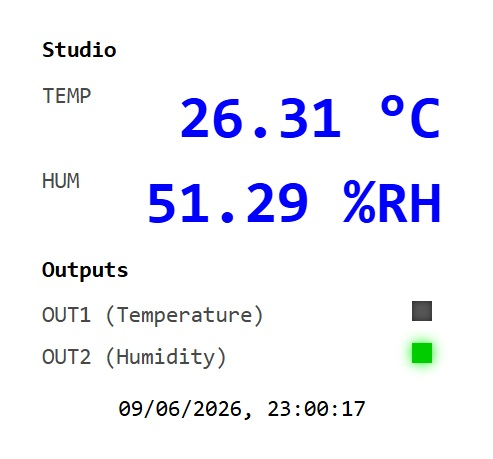
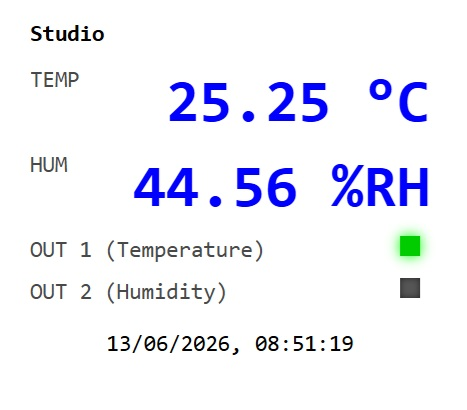
Removed /info page; change /home page removing "outputs" label; Update README and TODO.

diff --git a/include/wlt_tcp.h b/include/wlt_tcp.h
@@ -72,49 +72,6 @@ input[type=\"submit\"]:hover {\
 background-color: #2980b9;\
 }\r\n"
 
-#define STYLE_INFO_CSS                        "body {\
-font-family: Arial, sans-serif;\
-background-color: #f4f6f8;\
-color: #333;\
-display: flex;\
-justify-content: center;\
-align-items: flex-start;\
-min-height: 100vh;\
-padding-top: 50px;\
-margin: 0;\
-}\n\
-.info-container {\
-background-color: #ffffff;\
-padding: 30px;\
-border-radius: 8px;\
-box-shadow: 0 4px 12px rgba(0, 0, 0, 0.1);\
-width: 400px;\
-font-size: 2rem;\
-}\n\
-h2 {\
-color: #2c3e50;\
-margin-bottom: 20px;\
-text-align: center;\
-font-size: 1.5rem;\
-}\n\
-h3 {\
-color:rgb(90, 100, 240);\
-margin-bottom: 20px;\
-text-align: center;\
-}\n\
-.info-data {\
-display: flex;\
-flex-direction: column;\
-gap: 10px;\
-align-items: stretch;\
-}\n\
-.info-data label span.value {\
-font-family: 'Consolas', 'Courier New', monospace;\
-font-size: 2.2rem;\
-color: rgb(0, 0, 255);\
-font-weight: bold;\
-}\r\n"
-
 #define STYLE_FORM_DARK         ":root{--bg: #121212;--fg: #e0e0e0;--border: #444;--accent: #00f;}\
 body{font-family: Arial, sans-serif;background: var(--bg);color: var(--fg);margin: 10px;font-size: 14px;}\
 .container{max-width: 320px;margin: auto;}\
@@ -159,45 +116,7 @@ display:flex;align-items:center;justify-content:center;height:100vh}\
 .led.off{background-color:#555;box-shadow: inset 0 0 5px #222;}\
 .led.on{background-color:#00cc00;box-shadow: 0 0 10px #00ff00;}\r\n"
 
-// **** INFO PAGE ****
-#define INFO_REPLY_HEAD                     "<!DOCTYPE html>\
-<html lang=\"en\">\
-<head>\
-<meta charset=\"UTF-8\">\
-<meta name=\"viewport\" content=\"width=device-width, initial-scale=1.0\"/>\
-<title>Sensor info</title>\
-<link rel=\"stylesheet\" type=\"text/css\" href=\"style_info.css\">\
-<script>\
-setInterval(() => { location.reload(); }, 10000);\
-</script>\
-</head>"
-
-#define INFO_REPLY_BODY                     "<body>\
-<div class=\"info-container\">\
-<h2>%s</h2>\
-<div class=\"info-data\">\
-<label><span class=\"value\">%.02f %s</span></label>\
-<label><span class=\"value\">%.02f %%RH</span></label>\
-</div>\
-<h2 id=\"datetime\"></h2>\
-<script>\
-document.getElementById('datetime').textContent = new Date().toLocaleString();\
-</script>\
-</div>\
-</body>\
-</html>"
-
-#define INFO_REPLY_BODY_NOT_VALID         "<body>\
-<div class=\"info-container\">\
-<h2>%s</h2>\
-<div class=\"info-data\">\
-<p>Sensor not available or last data read is not valid!</p>\
-</div>\
-</div>\
-</body>\
-</html>"
-
-// **** HOME PAGE (replace INFO page)
+// **** HOME PAGE ****
 #define HOME_REPLY_HEAD                    "<!doctype html>\
 <html>\
 <head>\
@@ -212,9 +131,8 @@ document.getElementById('datetime').textContent = new Date().toLocaleString();\
 <div class=r><span class=l>TEMP</span><span class=v>%.02f %s</span></div>\
 <div class=r><span class=l>HUM</span><span class=v>%.02f %%RH</span></div>"
 
-#define HOME_REPLY_BODY_OUTS                "<h2 class=t>Outputs</h2>\
-<div class=r><span class=l>OUT1 (%s)</span><span class=\"%s\"></span></div>\
-<div class=r><span class=l>OUT2 (%s)</span><span class=\"%s\"></span></div>\
+#define HOME_REPLY_BODY_OUTS                "<div class=r><span class=l>OUT 1 (%s)</span><span class=\"%s\"></span></div>\
+<div class=r><span class=l>OUT 2 (%s)</span><span class=\"%s\"></span></div>\
 <div class=d id=datetime>\
 <h3 id=\"datetime\"></h3>\
 <script>\
@@ -451,12 +369,10 @@ document.getElementById(\"datetime\").textContent = new Date().toLocaleString();
 #define STYLE_URL                           "/style.css"
 #define STYLE_FORM_DARK_URL                 "/style_form_dark.css"
 #define STYLE_FORM_LIGHT_URL                "/style_form_light.css"
-#define STYLE_INFO_URL                      "/style_info.css"
 #define STYLE_HOME_DARK_URL                 "/style_dark.css"
 #define STYLE_HOME_LIGHT_URL                "/style_light.css"
 #define FAVICON_URL                         "/favicon.ico"
 #define HOME_URL                            "/home"
-#define INFO_URL                            "/info"
 #define SETTINGS_URL                        "/settings"
 #define SETTINGS_FORM_URL                   "/setparams"
 #define ADVANCED_URL                        "/advparams"
@@ -484,12 +400,10 @@ enum http_get_req {
     HTTP_REQ_STYLE,
     HTTP_REQ_STYLE_FORM_DARK,
     HTTP_REQ_STYLE_FORM_LIGHT,
-    HTTP_REQ_STYLE_INFO,
     HTTP_REQ_STYLE_DARK,
     HTTP_REQ_STYLE_LIGHT,
     HTTP_REQ_HOME,
     HTTP_REQ_FAVICON,
-    HTTP_REQ_INFO,
     HTTP_REQ_SETTINGS,
     HTTP_REQ_SETTINGS_FORM,
     HTTP_REQ_ADVANCED,
@@ -508,8 +422,6 @@ enum http_get_req {
 };
 
 enum http_post_req {
-//    HTTP_API_INFO,
-//    HTTP_API_GET_SETTINGS,
     HTTP_API_SET_ALL_PARAMS,
     HTTP_API_SET_WIFI_PARAMS,
     HTTP_API_SET_SETTING_PARAMS,

diff --git a/wlt_tcp.c b/wlt_tcp.c
@@ -13,12 +13,10 @@ static char *http_get_req_str[HTTP_GET_REQ_MAX] = {
     STYLE_URL,
     STYLE_FORM_DARK_URL,
     STYLE_FORM_LIGHT_URL,
-    STYLE_INFO_URL,
     STYLE_HOME_DARK_URL,
     STYLE_HOME_LIGHT_URL,
     HOME_URL,
     FAVICON_URL,
-    INFO_URL,
     SETTINGS_URL,
     SETTINGS_FORM_URL,
     ADVANCED_URL,
@@ -439,22 +437,6 @@ static int fill_server_content(const char *request, const char *params, char *re
                 }
                 break;
 
-            case HTTP_REQ_STYLE_INFO:
-                // Copy the style sheet for info page
-                len2copy = strlen(STYLE_INFO_CSS);
-                if (len2copy >= max_result_len) {
-                    printf("Result buffer too small for style info (len2copy=%d, max_result_len=%zu)\n", len2copy, max_result_len);
-                    return 0; // Error
-                }
-                else {
-                    len += snprintf(result + len, max_result_len - len, STYLE_INFO_CSS);
-                }
-                if (len < 0) {
-                    printf("Error generating info content\n");
-                    return 0; // Error
-                }
-                break;
-
             case HTTP_REQ_STYLE_DARK:
                 // Copy the style sheet
                 len2copy = strlen(STYLE_CSS_DARK);
@@ -559,43 +541,6 @@ static int fill_server_content(const char *request, const char *params, char *re
                     printf("Error generating favicon content\n");
                     return 0; // Error
                 }
-                break;
-
-            case HTTP_REQ_INFO:
-                // copy the info head
-                len += snprintf(result + len, max_result_len - len, INFO_REPLY_HEAD);
-                if (len < 0) {
-                    printf("Error generating info content\n");
-                    return 0; // Error
-                }
-                else if (len >= max_result_len) {
-                    printf("Result buffer too small for info head (len=%d, max_result_len=%zu)\n", len, max_result_len);
-                    return 0; // Error
-                }
-                // copy the info body
-                if (prtconfig->data.settings.options.data_valid == SENS_DATA_NOT_VALID) {
-                    // If data is not valid, show a message
-                    len += snprintf(result + len, max_result_len - len, INFO_REPLY_BODY_NOT_VALID, prtconfig->net_config.devicename);
-                } else {
-                    // Fill in the body with the sensor data
-                    len += snprintf(result + len, max_result_len - len, INFO_REPLY_BODY,
-                                    prtconfig->net_config.devicename,
-                                    (prtconfig->data.settings.options.t_format == T_FORMAT_CELSIUS ? prtconfig->data.temperature : C2F(prtconfig->data.temperature)),
-                                    (prtconfig->data.settings.options.t_format == T_FORMAT_CELSIUS ? "&degC" : "&degF"),
-                                    prtconfig->data.humidity);
-                }
-                if (len < 0) {
-                    printf("Error generating info content\n");
-                    return 0; // Error
-                }
-                else if (len >= max_result_len) {
-                    printf("Result buffer too small for info body (len=%d, max_result_len=%zu)\n", len, max_result_len);
-                    return 0; // Error
-                }
-#if DEBUG
-                else
-                    printf("Info content generated successfully, length: %d\n", len);
-#endif
                 break;
 
             case HTTP_REQ_SETTINGS:

diff --git a/README.md b/README.md
@@ -7,7 +7,7 @@ The measured values can be accessed via a web server interface — either throug
 The device allows configuration of several parameters, including:  
 - The device name  
 - Temperature format: °C or °F  
-- Output format: TXT or CSV
+- Output format on serial port: TXT or CSV
 - Theme of the home page (dark or light)  
 - Sensor polling interval
 - Temperature or humidity associated with the output  
@@ -27,7 +27,8 @@ To know the working status of the device, I added a RGB led that shows these col
 | Blue      | Blink | RUN IN AP MODE   |
 | Yellow    | Solid | WIFI FAIL        |  
 
-Sensor readings are always available, but configuration is only possible when the device is operating in Access Point mode.  
+Sensor readings are always available, but configuration via web server is only possible when the device is operating in Access Point mode.  
+Using API, is possible to change configuration also in Station Mode.  
 
 ## Hardware configuration  
 
@@ -67,19 +68,17 @@ The simple web server implemented in the device serves this pages:
 
 | Page              | Available in AP mode | Available in STA mode |
 |-------------------|----------------------|-----------------------|
-| /home  (*)        |           YES        |        YES            |
-| /info             |           YES        |        YES            |
+| /home             |           YES        |        YES            |
 | /settings         |           YES        |        NO             |
 | /advparams        |           YES        |        NO             |  
 
 `/home` is available in dark or light theme.  
+
 The dark theme is this:  
 ![home](/resources/home_dark.jpg "home web page in dark mode")  
+
 The light theme is this:  
 ![home](/resources/home_light.jpg "home web page in light mode")  
-
-The response to `/info` request is the following:  
-![info](/resources/info.jpg "info web page response")  
 
 The response to `/settings` page depends on the wifi mode; in AP mode the response is:  
 ![settings](/resources/settings_ap.jpg "settings web page response in AP mode")  

diff --git a/TODO.md b/TODO.md
@@ -1,6 +1,6 @@
 # TODO
 - ~~aggiungere visualizzazione dello stato delle uscite sulla home page~~
 - verificare che connettendosi solo all'indirizzo IP, si viene rediretti alla pagina home
-- fogliere la pagina info (non serve se la home funziona bene)
+- ~~togliere la pagina info (non serve se la home funziona bene)~~
 - rifare le pagine web di configurazione
 - aggiungere MQTT.